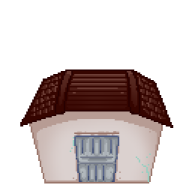
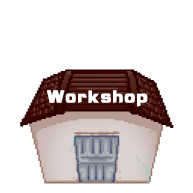
Add label to buildings

Changed region(s): [[0.2176, 0.4663, 0.7772, 0.5596]]

diff --git a/site_media/javascript/javascript.js b/site_media/javascript/javascript.js
@@ -315,6 +315,9 @@ function Game(name) {
 		'School': 'Building/school.png', 
 		'Market': 'Building/market.png', 
 		'HealthCenter': 'Building/healthcenter.png',
+		'Loan': 'Building/loan.png',
+		'MarketResearch': 'Building/market_research.png',
+		'Health': 'Building/health.png',
 		//"mira_house.png", "market.png", "school.png", "workshop.png",
 	};
 
